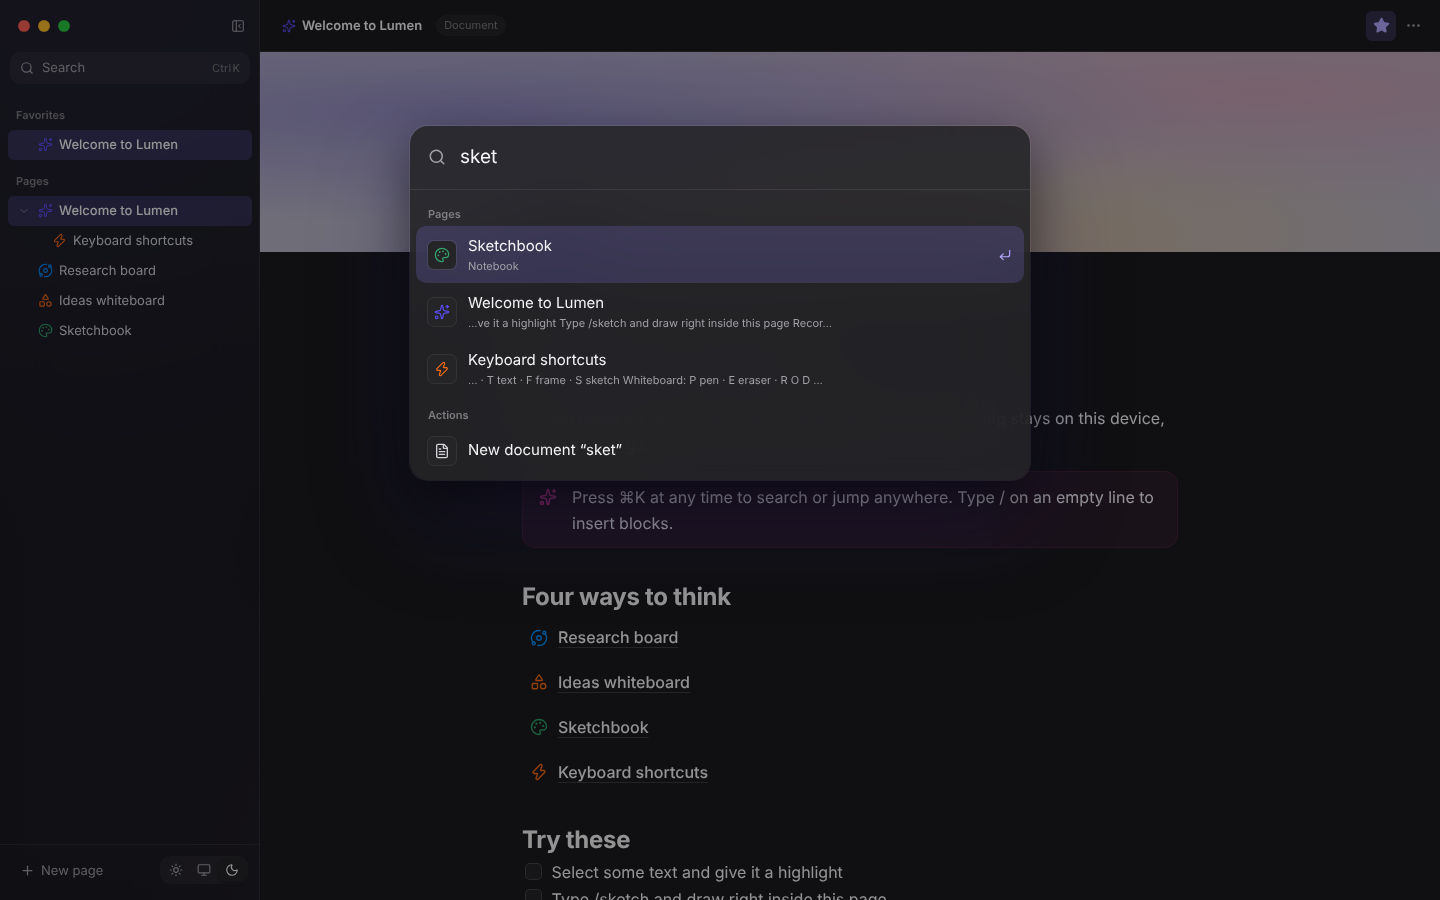
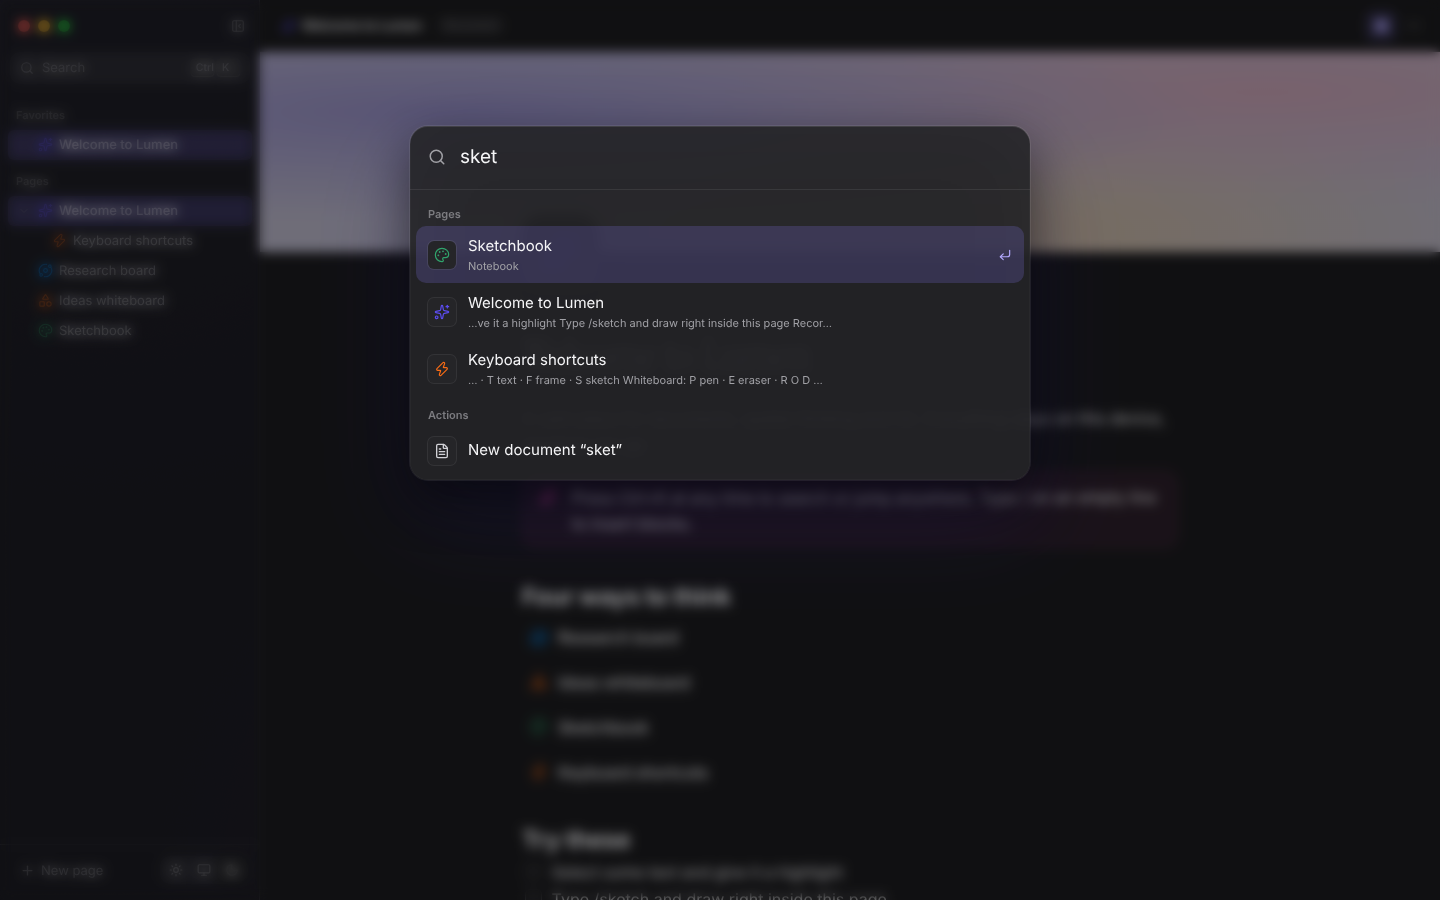
docs: refresh screenshots for Windows key caps and the blurred palette
Claude-Session: https://claude.ai/code/session_01C43KpLVQYyaqAJmuSxqoet

diff --git a/docs/13-performance.md b/docs/13-performance.md
@@ -76,7 +76,7 @@ is shared with the previous state. That's why:
 
 * Imported images are downscaled to ≤1600 px WebP before storage.
 * Audio is stored as native Blobs in a separate IndexedDB store, out of the
-  JSON that gets serialised on save.
+  workspace object that gets cloned on every save.
 
 ## Measure, don't guess
 
